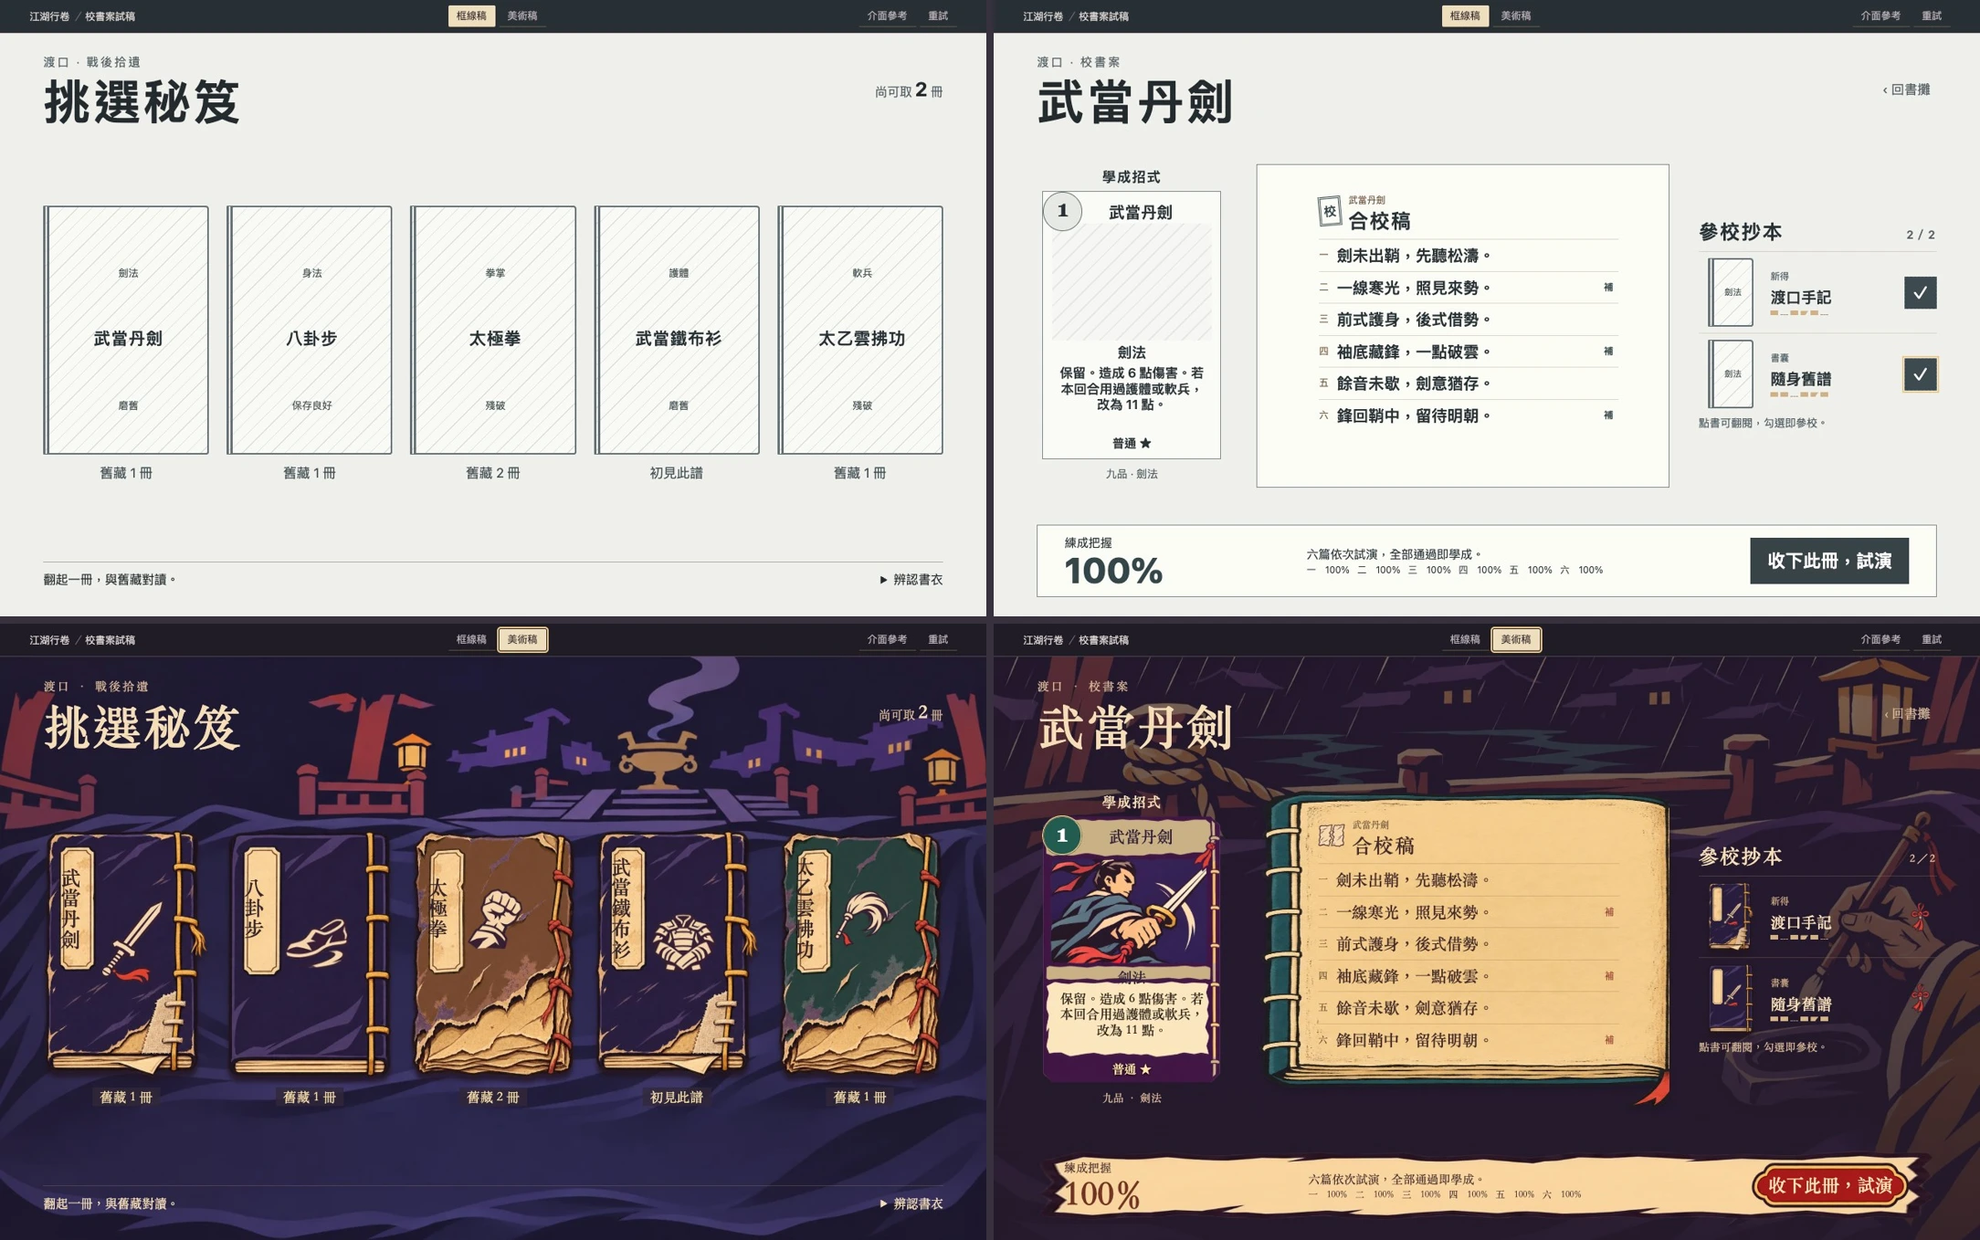
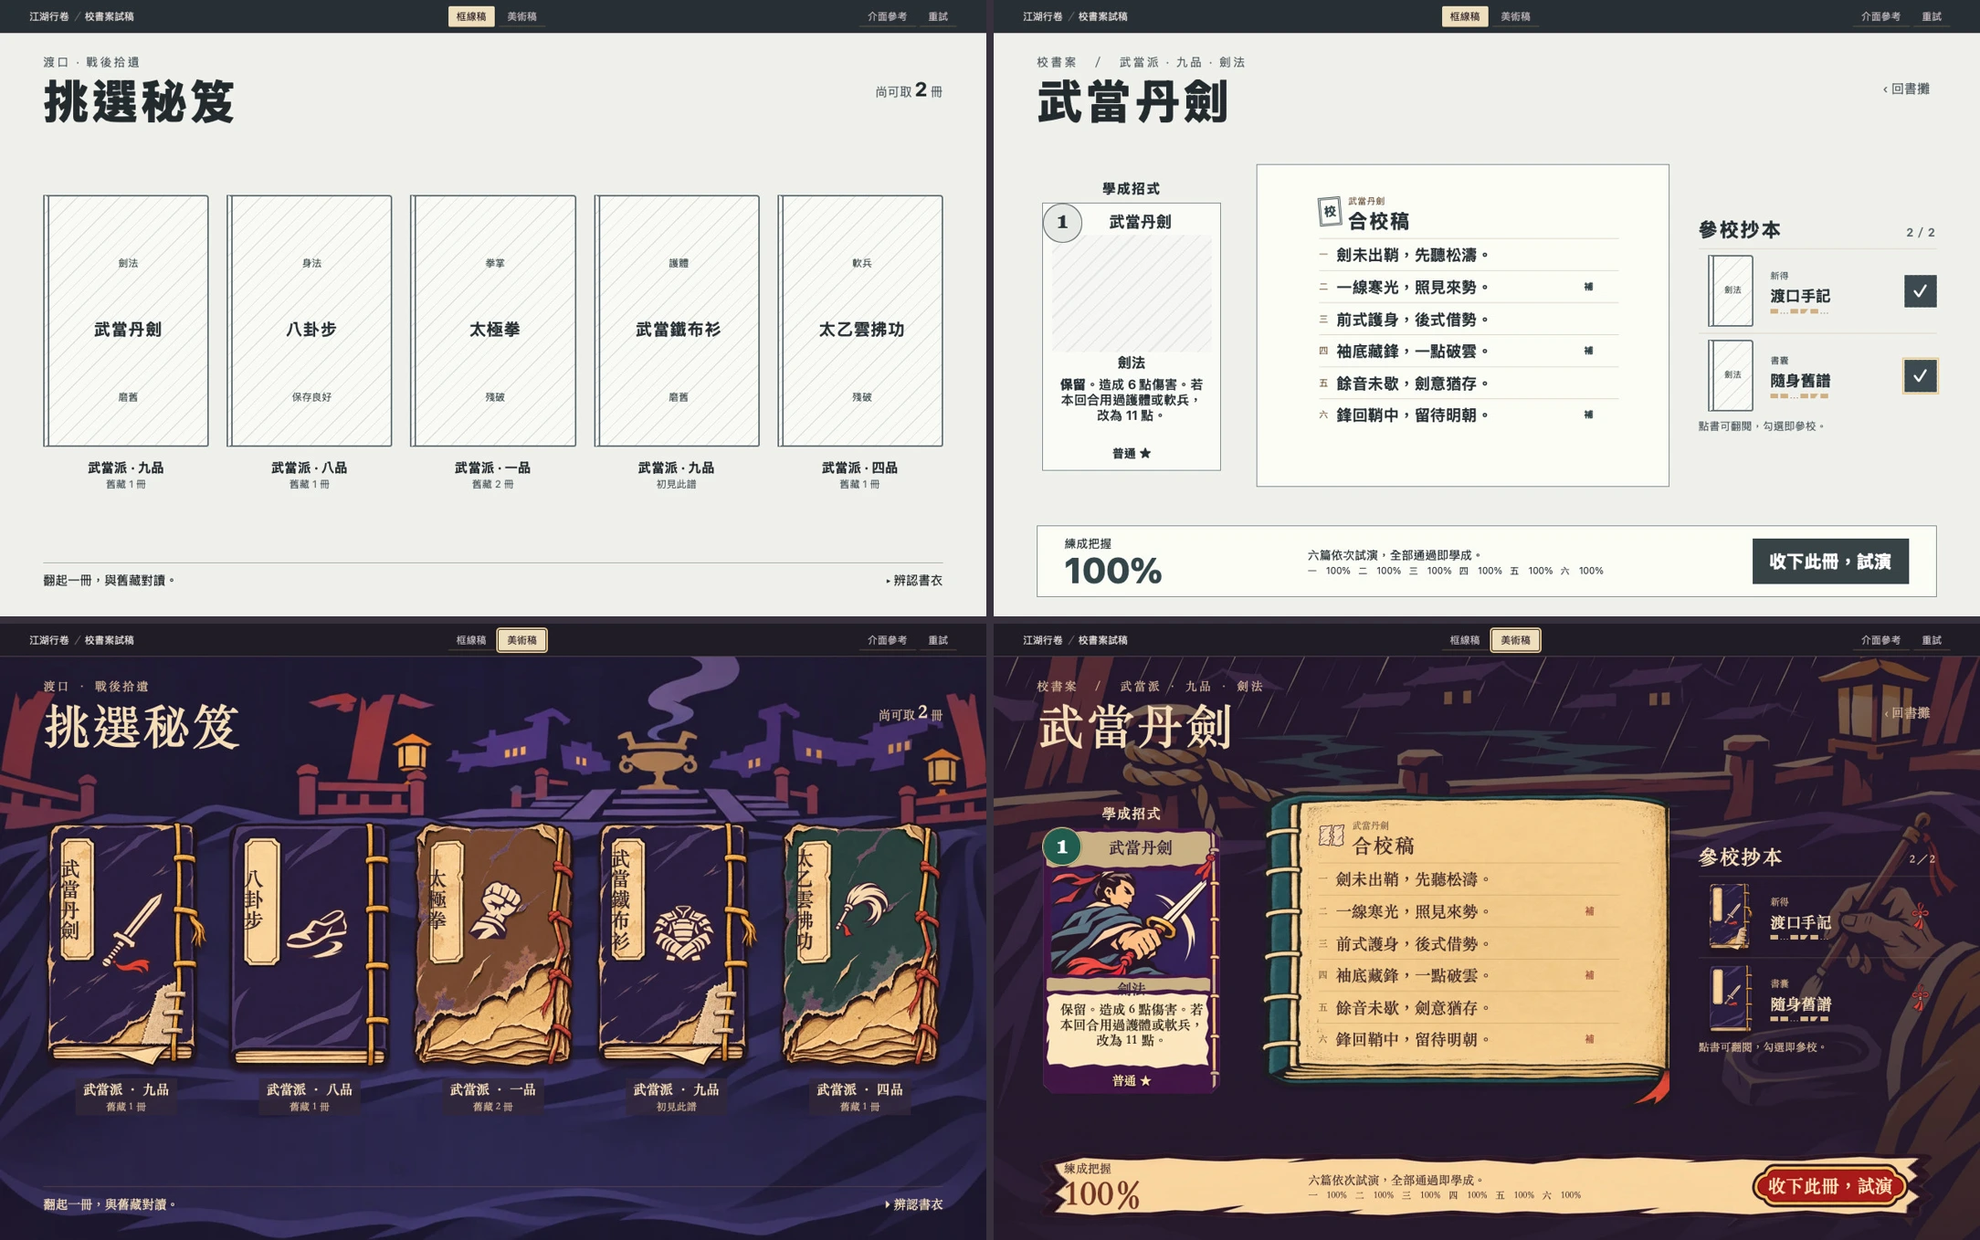
Animate the six practice results in the verse margins and label manuscript ranks

diff --git a/wuxia-climb/ferry/experiments/wudang-tree/bindery/bindery.js b/wuxia-climb/ferry/experiments/wudang-tree/bindery/bindery.js
@@ -15,12 +15,44 @@ const specimens=[
  ['太乙雲拂功',[0,1,0,2,0,1],'雲房散葉',[['藏經抄本',[1,0,2,0,2,0]]]]
 ];
 const params=new URLSearchParams(location.search),stage=document.querySelector('#stage');
-let mode=params.get('mode')==='art'?'art':'wire',screen=params.get('screen')==='study'?'study':'shelf';
+let mode=params.get('mode')==='wire'?'wire':'art',screen=params.get('screen')==='study'?'study':'shelf';
 let index=0,state,choices,logs,inspected,chosen;
-function reset(){state=reviewJourney('books');choices=new Map();logs=new Map();inspected=null;chosen=new Set([0]);index=0}
+const beatMs=650;
+let playback=null,ticker=0;
+function endPlayback(){clearTimeout(ticker);playback=null}
+function advancePlayback(){
+ if(!playback)return;
+ const record=logs.get(index);
+ playback.step++;
+ if(playback.step>=record.rolls.length){endPlayback();render();return}
+ updateMarks(record);ticker=setTimeout(advancePlayback,beatMs);
+}
+function startPlayback(){
+ endPlayback();
+ if(!window.matchMedia('(prefers-reduced-motion: reduce)').matches){
+  playback={step:0};ticker=setTimeout(advancePlayback,beatMs);
+ }
+}
+// Each row reuses the same eight-frame ink strip after it has passed. The last
+// frame of the separate defeat strip holds a kneeling pose.
+const motionRows={'劍法':[0,1,4,0,1,3],'身法':[3,2,1,2,0,3],'拳掌':[3,0,1,4,0,3],'護體':[3,1,3,1,0,3],'軟兵':[1,0,1,4,1,3]};
+function updateMarks(record){
+ const motions=motionRows[byName.get(specimens[index][0]).branch];
+ stage.querySelectorAll('[data-practice-row]').forEach((mark,i)=>{
+  const last=i===record.failed;
+  const status=i>=record.rolls.length?'unreached':!playback||i<playback.step?(last?'fallen':'passed'):i===playback.step?(last?'falling':'moving'):'waiting';
+  if(mark.dataset.pose===status)return;
+  mark.dataset.pose=status;
+  mark.style.setProperty('--strip-y',((last?5:motions[i])/5*100)+'%');
+  mark.setAttribute('aria-label','第'+chapters[i]+'篇 · '+({waiting:'待演',unreached:'未練到',moving:'試演中',falling:'失手',passed:'已通',fallen:'失手'}[status]));
+ });
+}
+function identity(a){return '武當派 · '+ranks[a.rank]+'品'}
+
+function reset(){endPlayback();state=reviewJourney('books');choices=new Map();logs=new Map();inspected=null;chosen=new Set([0]);index=0}
 reset();
 function copies(){const [,pages,title,owned]=specimens[index];return [[title,pages],...owned]}
-function openBook(i){index=i;screen='study';inspected=null;chosen=new Set(choices.get(i)||[0]);render(true)}
+function openBook(i){endPlayback();index=i;screen='study';inspected=null;chosen=new Set(choices.get(i)||[0]);render(true)}
 function selectedPages(){return collate(copies().filter((_,i)=>chosen.has(i)).map(c=>c[1]))}
 function tint(a){return a.rank<=3?'-gold':a.rank<=6?'-jade':''}
 function volume(a,pages){
@@ -33,8 +65,8 @@ function shelf(){
  const budget=2-logs.size;
  const books=specimens.map(([name,pages,,owned],i)=>{
   const a=byName.get(name),[,condition]=bindingState(pages);
-  return '<button class="shelf-item" data-open="'+i+'" aria-label="翻閱《'+name+'》，'+a.branch+'，'+ranks[a.rank]+'品，'+condition+'，已有'+owned.length+'冊">'+volume(a,pages)+
-   '<span class="volume-foot">'+(logs.has(i)?'已入囊':owned.length?'舊藏 '+owned.length+' 冊':'初見此譜')+'</span></button>';
+  return '<button class="shelf-item" data-open="'+i+'" aria-label="翻閱《'+name+'》，'+identity(a)+'，'+a.branch+'，'+condition+'，已有'+owned.length+'冊">'+volume(a,pages)+
+   '<span class="volume-foot"><b>'+identity(a)+'</b><small>'+(logs.has(i)?'已入囊':owned.length?'舊藏 '+owned.length+' 冊':'初見此譜')+'</small></span></button>';
  }).join('');
  return title('渡口 · 戰後拾遺','挑選秘笈','<p class="allowance">尚可取 <b>'+budget+'</b> 冊</p>')+
   '<div class="shelf">'+books+'</div><div class="shelf-base"><span>翻起一冊，與舊藏對讀。</span><details><summary>辨認書衣</summary><div><b>品階</b>　靛青 · 下三品　玉綠 · 中三品　赭金 · 上三品<br><b>書況</b>　整齊線裝 → 補綴缺角 → 散頁斷線<br><b>書上印記</b>　'+Object.entries(families).map(([key,id])=>'<span class="legend-icon"><img alt="" src="art/'+id+'.webp">'+key+'</span>').join('')+'</div></details></div>';
@@ -49,22 +81,23 @@ function study(){
  const seeOriginal=inspected!==null,read=seeOriginal?sources[inspected][1]:pages;
  const chapterList=chapters.map((n,i)=>{
   const fixed=!seeOriginal&&chosen.has(0)&&chosen.size>1&&pages[i]>sources[0][1][i];
-  const phase=rec&&!seeOriginal?(i>=rec.rolls.length?'未至':rec.failed===i?'失手':'已通'):null;
-  return '<li data-q="'+read[i]+'"><span class="chapter-number">'+n+'</span><span class="stanza">'+instruction(a,i,read[i])+'</span><small class="impression">'+(phase|| (fixed?'補':'') )+'</small></li>';
+  const mark=rec&&!seeOriginal?'<span class="practice-mark" data-practice-row="'+i+'" role="img"></span>':'<small class="impression">'+(fixed?'補':'')+'</small>';
+  return '<li data-q="'+read[i]+'"><span class="chapter-number">'+n+'</span><span class="stanza">'+instruction(a,i,read[i])+'</span>'+mark+'</li>';
  }).join('');
  const candidateList=sources.map(([label,p],i)=>'<div class="source-row"><button data-look="'+i+'" class="little-copy" aria-label="翻閱原本：'+label+'">'+volume(a,p)+'</button><span class="source-caption"><small>'+(i===0?'新得':'書囊')+'</small><b>'+label+'</b><span class="coverage" aria-label="'+p.map(v=>['缺','殘','全'][v]).join('、')+'">'+p.map(v=>'<i data-q="'+v+'"></i>').join('')+'</span></span><button class="use-copy" data-use="'+i+'" aria-pressed="'+chosen.has(i)+'" aria-label="'+(chosen.has(i)?'移出':'加入')+label+'" '+(rec?'disabled':'')+'>'+(chosen.has(i)?'✓':'＋')+'</button></div>').join('');
  const chance=rec?rec.odds.reduce((n,p)=>n*p/100,100):trainingChance(state,a,pages);
- const train=rec?(rec.failed<0?'學成入牌組':'止於第'+chapters[rec.failed]+'篇'):logs.size>=2?'本場已取兩冊':!chosen.size?'先選參校本':'收下此冊，試演';
- return title('渡口 · 校書案',a.name,'<button data-do="shelf" class="return">‹ 回書攤</button>')+
- '<div class="workbench"><section class="payoff"><h2>'+(rec?.failed===-1?'已加入牌組':'學成招式')+'</h2>'+card(a)+'<p>'+ranks[a.rank]+'品 · '+a.branch+'</p></section>'+
+ const train=playback?'試演中…':rec?(rec.failed<0?'學成入牌組':'止於第'+chapters[rec.failed]+'篇'):logs.size>=2?'本場已取兩冊':!chosen.size?'先選參校本':'收下此冊，試演';
+ return title('校書案　／　'+identity(a)+' · '+a.branch,a.name,'<button data-do="shelf" class="return">‹ 回書攤</button>')+
+ '<div class="workbench"><section class="payoff"><h2>'+(!playback&&rec?.failed===-1?'已加入牌組':'學成招式')+'</h2>'+card(a)+'</section>'+
  '<section class="reading"><div class="paper"><div class="paper-head"><span class="chop">'+(seeOriginal?'原':'校')+'</span><div><small>'+a.name+'</small><h2>'+(seeOriginal?sources[inspected][0]:'合校稿')+'</h2></div></div><ol>'+chapterList+'</ol></div>'+
  (seeOriginal?'<button data-do="joined" class="read-back">看合校稿</button>':'')+'</section>'+
  '<section class="sources"><h2>參校抄本 <small>'+chosen.size+'／'+sources.length+'</small></h2>'+candidateList+'<p>點書可翻閱，勾選即參校。</p></section></div>'+
- '<div class="judgment"><div><small>練成把握</small><strong>'+(chosen.size?Number(chance.toFixed(1))+'%':'—')+'</strong></div><div class="gates"><span>'+(rec?(rec.failed<0?'六式連成，招式已入牌組。':'抄本仍在，今次試演已用。'):'六篇依次試演，全部通過即學成。')+'</span><div>'+odds.map((p,i)=>'<small>'+chapters[i]+'　'+(rec?rec.odds[i]:chosen.size?p:'—')+(chosen.size?'%':'')+'</small>').join('')+'</div></div><button class="apply" data-do="train" '+(rec||logs.size>=2||!chosen.size?'disabled':'')+'>'+train+'</button></div>';
+ '<div class="judgment"><div><small>練成把握</small><strong>'+(chosen.size?Number(chance.toFixed(1))+'%':'—')+'</strong></div><div class="gates"><span>'+(playback?'依譜試演，逐式過關。':rec?(rec.failed<0?'六式連成，招式已入牌組。':'抄本仍在，今次試演已用。'):'六篇依次試演，全部通過即學成。')+'</span><div>'+odds.map((p,i)=>'<small>'+chapters[i]+'　'+(rec?rec.odds[i]:chosen.size?p:'—')+(chosen.size?'%':'')+'</small>').join('')+'</div></div><button class="apply" data-do="train" '+(rec||logs.size>=2||!chosen.size?'disabled':'')+'>'+train+'</button></div>';
 }
 function render(focus=false){
  document.body.dataset.mode=mode;stage.dataset.screen=screen;
  stage.innerHTML=screen==='shelf'?shelf():study();
+ if(screen==='study'&&logs.has(index))updateMarks(logs.get(index));
  document.querySelectorAll('[data-mode]').forEach(b=>b.setAttribute('aria-pressed',String(b.dataset.mode===mode)));
  const url=new URL(location.href);url.searchParams.set('mode',mode);url.searchParams.set('screen',screen);history.replaceState(null,'',url);
  if(focus)stage.querySelector('h1').focus({preventScroll:true});
@@ -75,7 +108,7 @@ document.addEventListener('click',e=>{
  if(b.dataset.open!=null){openBook(+b.dataset.open);return}
  if(b.dataset.do==='references'){document.querySelector('#references').showModal();return}
  if(b.dataset.do==='reset'){reset();screen='shelf';render(true);return}
- if(b.dataset.do==='shelf'){screen='shelf';render(true);return}
+ if(b.dataset.do==='shelf'){endPlayback();screen='shelf';render(true);return}
  if(b.dataset.look!=null)inspected=+b.dataset.look;
  else if(b.dataset.use!=null){const i=+b.dataset.use;chosen.has(i)?chosen.delete(i):chosen.add(i);inspected=null}
  else if(b.dataset.do==='joined')inspected=null;
@@ -87,7 +120,7 @@ document.addEventListener('click',e=>{
   const passed=rehearse(run,a,0,Math.random);if(passed)equip(run,a);
   state.books[a.name]=withCopy(a,editions.slice(1).map(c=>c[1]),editions[0][1]);
   state.learned=run.learned;state.equipped=run.equipped;state.gateNotes=run.gateNotes;
-  logs.set(index,run.lastPractice);choices.set(index,[...chosen]);inspected=null;
+  logs.set(index,run.lastPractice);choices.set(index,[...chosen]);inspected=null;startPlayback();
  }else return;
  render();const key=b.dataset.use!=null?'[data-use="'+b.dataset.use+'"]':b.dataset.look!=null?'[data-look="'+b.dataset.look+'"]':null;
  if(key)stage.querySelector(key)?.focus({preventScroll:true});

diff --git a/manuscript-workshop/index.html b/manuscript-workshop/index.html
@@ -1,3 +1,3 @@
-<!doctype html><html lang="zh-Hant"><head><base href="../wuxia-climb/ferry/experiments/wudang-tree/bindery/"><meta charset="utf-8"><meta name="viewport" content="width=device-width,initial-scale=1"><title>江湖行卷 · 校書案試稿</title><link rel="stylesheet" href="../study.css"><link rel="stylesheet" href="bindery.css"></head><body>
+<!doctype html><html lang="zh-Hant"><head><base href="../wuxia-climb/ferry/experiments/wudang-tree/bindery/"><meta charset="utf-8"><meta name="viewport" content="width=device-width,initial-scale=1"><title>江湖行卷 · 校書案試稿</title><link rel="stylesheet" href="../study.css"><link rel="stylesheet" href="bindery.css?practice=1"></head><body>
 <nav class="reviewbar" aria-label="設計稿"><span>江湖行卷 <i>／</i> 校書案試稿</span><div><button data-mode="wire">框線稿</button><button data-mode="art">美術稿</button></div><aside><button data-do="references">介面參考</button><button data-do="reset">重試</button></aside></nav>
-<main id="stage"></main><dialog id="references"><h2>介面參考</h2><p><a href="https://store.steampowered.com/app/1574580/Strange_Horticulture/" target="_blank" rel="noopener">Strange Horticulture ↗</a> · <a target="_blank" rel="noopener" href="https://shared.akamai.steamstatic.com/store_item_assets/steam/apps/1574580/ss_bdf4e7e6ab970f19c95ae96896e9457a95dbdf65.1920x1080.jpg">遊戲截圖</a><br>草藥跟攤開的圖鑑同枱，玩家能來回核對。我們讓抄本和合校稿同時可見。</p><p><a href="https://weatherfactory.biz/a-peep-into-futurity/" target="_blank" rel="noopener">Book of Hours · 書桌設計 ↗</a> · <a target="_blank" rel="noopener" href="https://shared.akamai.steamstatic.com/store_item_assets/steam/apps/1028310/ss_0178a24cf186fc78c2bf8917564118bbf3e8e49a.1920x1080.jpg">遊戲截圖</a><br>走到書桌，再挑選放進去的材料。我們把勾選抄本和正式試演分成兩步。</p><p>此處備了五門功夫、兩次取書機會。選擇參校本是今次試驗的玩法。</p><form method="dialog"><button>回到案前</button></form></dialog><script type="module" src="bindery.js"></script></body></html>
+<main id="stage"></main><dialog id="references"><h2>介面參考</h2><p><a href="https://store.steampowered.com/app/1574580/Strange_Horticulture/" target="_blank" rel="noopener">Strange Horticulture ↗</a> · <a target="_blank" rel="noopener" href="https://shared.akamai.steamstatic.com/store_item_assets/steam/apps/1574580/ss_bdf4e7e6ab970f19c95ae96896e9457a95dbdf65.1920x1080.jpg">遊戲截圖</a><br>草藥跟攤開的圖鑑同枱，玩家能來回核對。我們讓抄本和合校稿同時可見。</p><p><a href="https://weatherfactory.biz/a-peep-into-futurity/" target="_blank" rel="noopener">Book of Hours · 書桌設計 ↗</a> · <a target="_blank" rel="noopener" href="https://shared.akamai.steamstatic.com/store_item_assets/steam/apps/1028310/ss_0178a24cf186fc78c2bf8917564118bbf3e8e49a.1920x1080.jpg">遊戲截圖</a><br>走到書桌，再挑選放進去的材料。我們把勾選抄本和正式試演分成兩步。</p><p>此處備了五門功夫、兩次取書機會。選擇參校本是今次試驗的玩法。</p><form method="dialog"><button>回到案前</button></form></dialog><script type="module" src="bindery.js?practice=1"></script></body></html>

diff --git a/wuxia-climb/ferry/experiments/wudang-tree/bindery/index.html b/wuxia-climb/ferry/experiments/wudang-tree/bindery/index.html
@@ -1,3 +1,3 @@
-<!doctype html><html lang="zh-Hant"><head><meta charset="utf-8"><meta name="viewport" content="width=device-width,initial-scale=1"><title>江湖行卷 · 校書案試稿</title><link rel="stylesheet" href="../study.css"><link rel="stylesheet" href="bindery.css"></head><body>
+<!doctype html><html lang="zh-Hant"><head><meta charset="utf-8"><meta name="viewport" content="width=device-width,initial-scale=1"><title>江湖行卷 · 校書案試稿</title><link rel="stylesheet" href="../study.css"><link rel="stylesheet" href="bindery.css?practice=1"></head><body>
 <nav class="reviewbar" aria-label="設計稿"><span>江湖行卷 <i>／</i> 校書案試稿</span><div><button data-mode="wire">框線稿</button><button data-mode="art">美術稿</button></div><aside><button data-do="references">介面參考</button><button data-do="reset">重試</button></aside></nav>
-<main id="stage"></main><dialog id="references"><h2>介面參考</h2><p><a href="https://store.steampowered.com/app/1574580/Strange_Horticulture/" target="_blank" rel="noopener">Strange Horticulture ↗</a> · <a target="_blank" rel="noopener" href="https://shared.akamai.steamstatic.com/store_item_assets/steam/apps/1574580/ss_bdf4e7e6ab970f19c95ae96896e9457a95dbdf65.1920x1080.jpg">遊戲截圖</a><br>草藥跟攤開的圖鑑同枱，玩家能來回核對。我們讓抄本和合校稿同時可見。</p><p><a href="https://weatherfactory.biz/a-peep-into-futurity/" target="_blank" rel="noopener">Book of Hours · 書桌設計 ↗</a> · <a target="_blank" rel="noopener" href="https://shared.akamai.steamstatic.com/store_item_assets/steam/apps/1028310/ss_0178a24cf186fc78c2bf8917564118bbf3e8e49a.1920x1080.jpg">遊戲截圖</a><br>走到書桌，再挑選放進去的材料。我們把勾選抄本和正式試演分成兩步。</p><p>此處備了五門功夫、兩次取書機會。選擇參校本是今次試驗的玩法。</p><form method="dialog"><button>回到案前</button></form></dialog><script type="module" src="bindery.js"></script></body></html>
+<main id="stage"></main><dialog id="references"><h2>介面參考</h2><p><a href="https://store.steampowered.com/app/1574580/Strange_Horticulture/" target="_blank" rel="noopener">Strange Horticulture ↗</a> · <a target="_blank" rel="noopener" href="https://shared.akamai.steamstatic.com/store_item_assets/steam/apps/1574580/ss_bdf4e7e6ab970f19c95ae96896e9457a95dbdf65.1920x1080.jpg">遊戲截圖</a><br>草藥跟攤開的圖鑑同枱，玩家能來回核對。我們讓抄本和合校稿同時可見。</p><p><a href="https://weatherfactory.biz/a-peep-into-futurity/" target="_blank" rel="noopener">Book of Hours · 書桌設計 ↗</a> · <a target="_blank" rel="noopener" href="https://shared.akamai.steamstatic.com/store_item_assets/steam/apps/1028310/ss_0178a24cf186fc78c2bf8917564118bbf3e8e49a.1920x1080.jpg">遊戲截圖</a><br>走到書桌，再挑選放進去的材料。我們把勾選抄本和正式試演分成兩步。</p><p>此處備了五門功夫、兩次取書機會。選擇參校本是今次試驗的玩法。</p><form method="dialog"><button>回到案前</button></form></dialog><script type="module" src="bindery.js?practice=1"></script></body></html>

diff --git a/wuxia-climb/ferry/experiments/wudang-tree/bindery/bindery.css b/wuxia-climb/ferry/experiments/wudang-tree/bindery/bindery.css
@@ -52,3 +52,19 @@ body[data-mode=wire]{--cream:#242b2f;--muted:#556166;--serif:system-ui,sans-seri
 [data-mode=art] .use-copy[aria-pressed=true]{font-size:0;border:0;background:transparent url('art/knot.webp') center/auto 92% no-repeat;transform:none}
 [data-mode=art] .chop{display:grid;place-content:center;width:35px;height:42px;font-size:0;color:transparent;border:0;transform:none;background:url('art/join.webp') center/contain no-repeat}
 [data-mode=art] .paper:has(+.read-back) .chop{font-size:22px;color:#934037;background:none;border:3px double #934037}
+
+.volume-foot{display:grid;justify-items:center;gap:3px;line-height:1.25;padding:4px 10px}
+.volume-foot b{font-weight:700;color:var(--cream)}.volume-foot small{font-size:.76em;color:var(--muted)}
+.paper li{grid-template-columns:1em minmax(0,1fr) clamp(29px,3.5vw,49px)}
+.practice-mark{justify-self:end;display:block;width:100%;max-width:48px;aspect-ratio:7/6;max-height:clamp(27px,4.9vh,42px);background:none}
+.practice-mark:is([data-pose=moving],[data-pose=passed],[data-pose=falling],[data-pose=fallen]){
+ background-image:url('art/practice-ink.webp');background-size:800% 600%;background-repeat:no-repeat;background-position:0 var(--strip-y)
+}
+.practice-mark[data-pose=fallen]{background-position-x:100%}
+.practice-mark[data-pose=passed]{background-position-x:57.14286%}
+@keyframes ink-form{from{background-position-x:0%}to{background-position-x:100%}}
+@media(prefers-reduced-motion:no-preference){
+ .practice-mark[data-pose=moving]{animation:ink-form .62s steps(7,end) both}
+ .practice-mark[data-pose=passed]{animation:ink-form 1.7s steps(7,end) infinite}
+ .practice-mark[data-pose=falling]{animation:ink-form .50s steps(7,end) both}
+}
